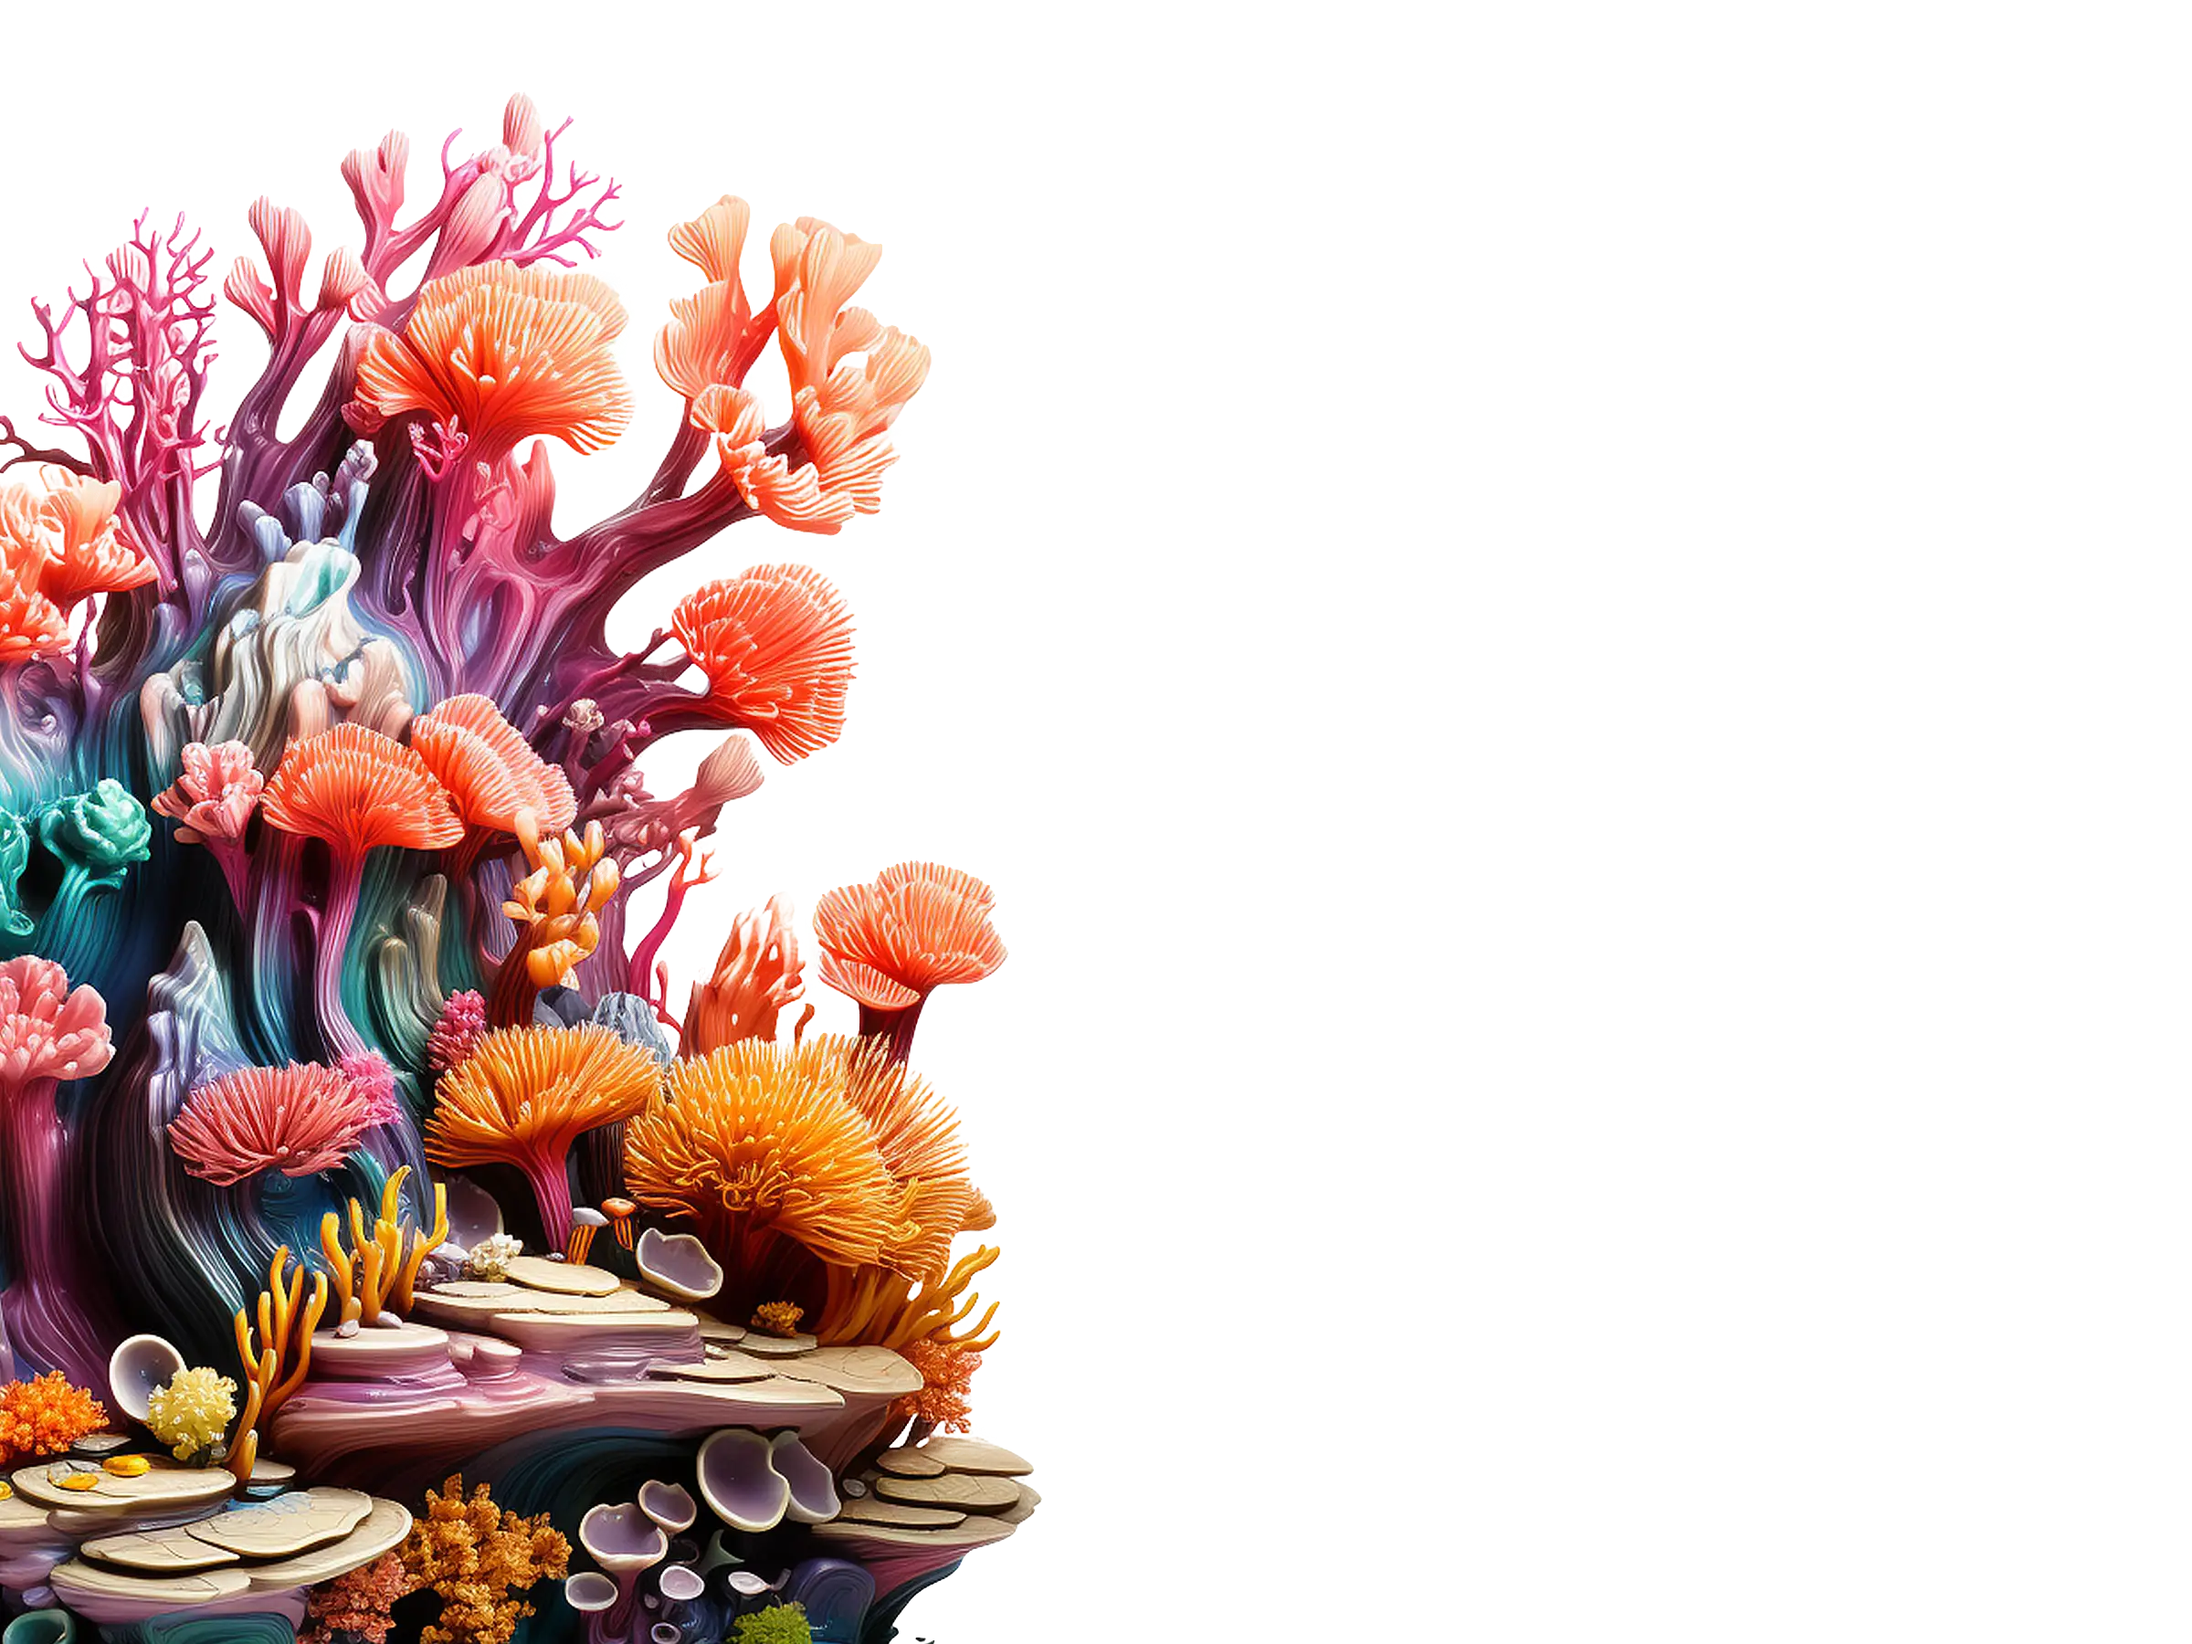
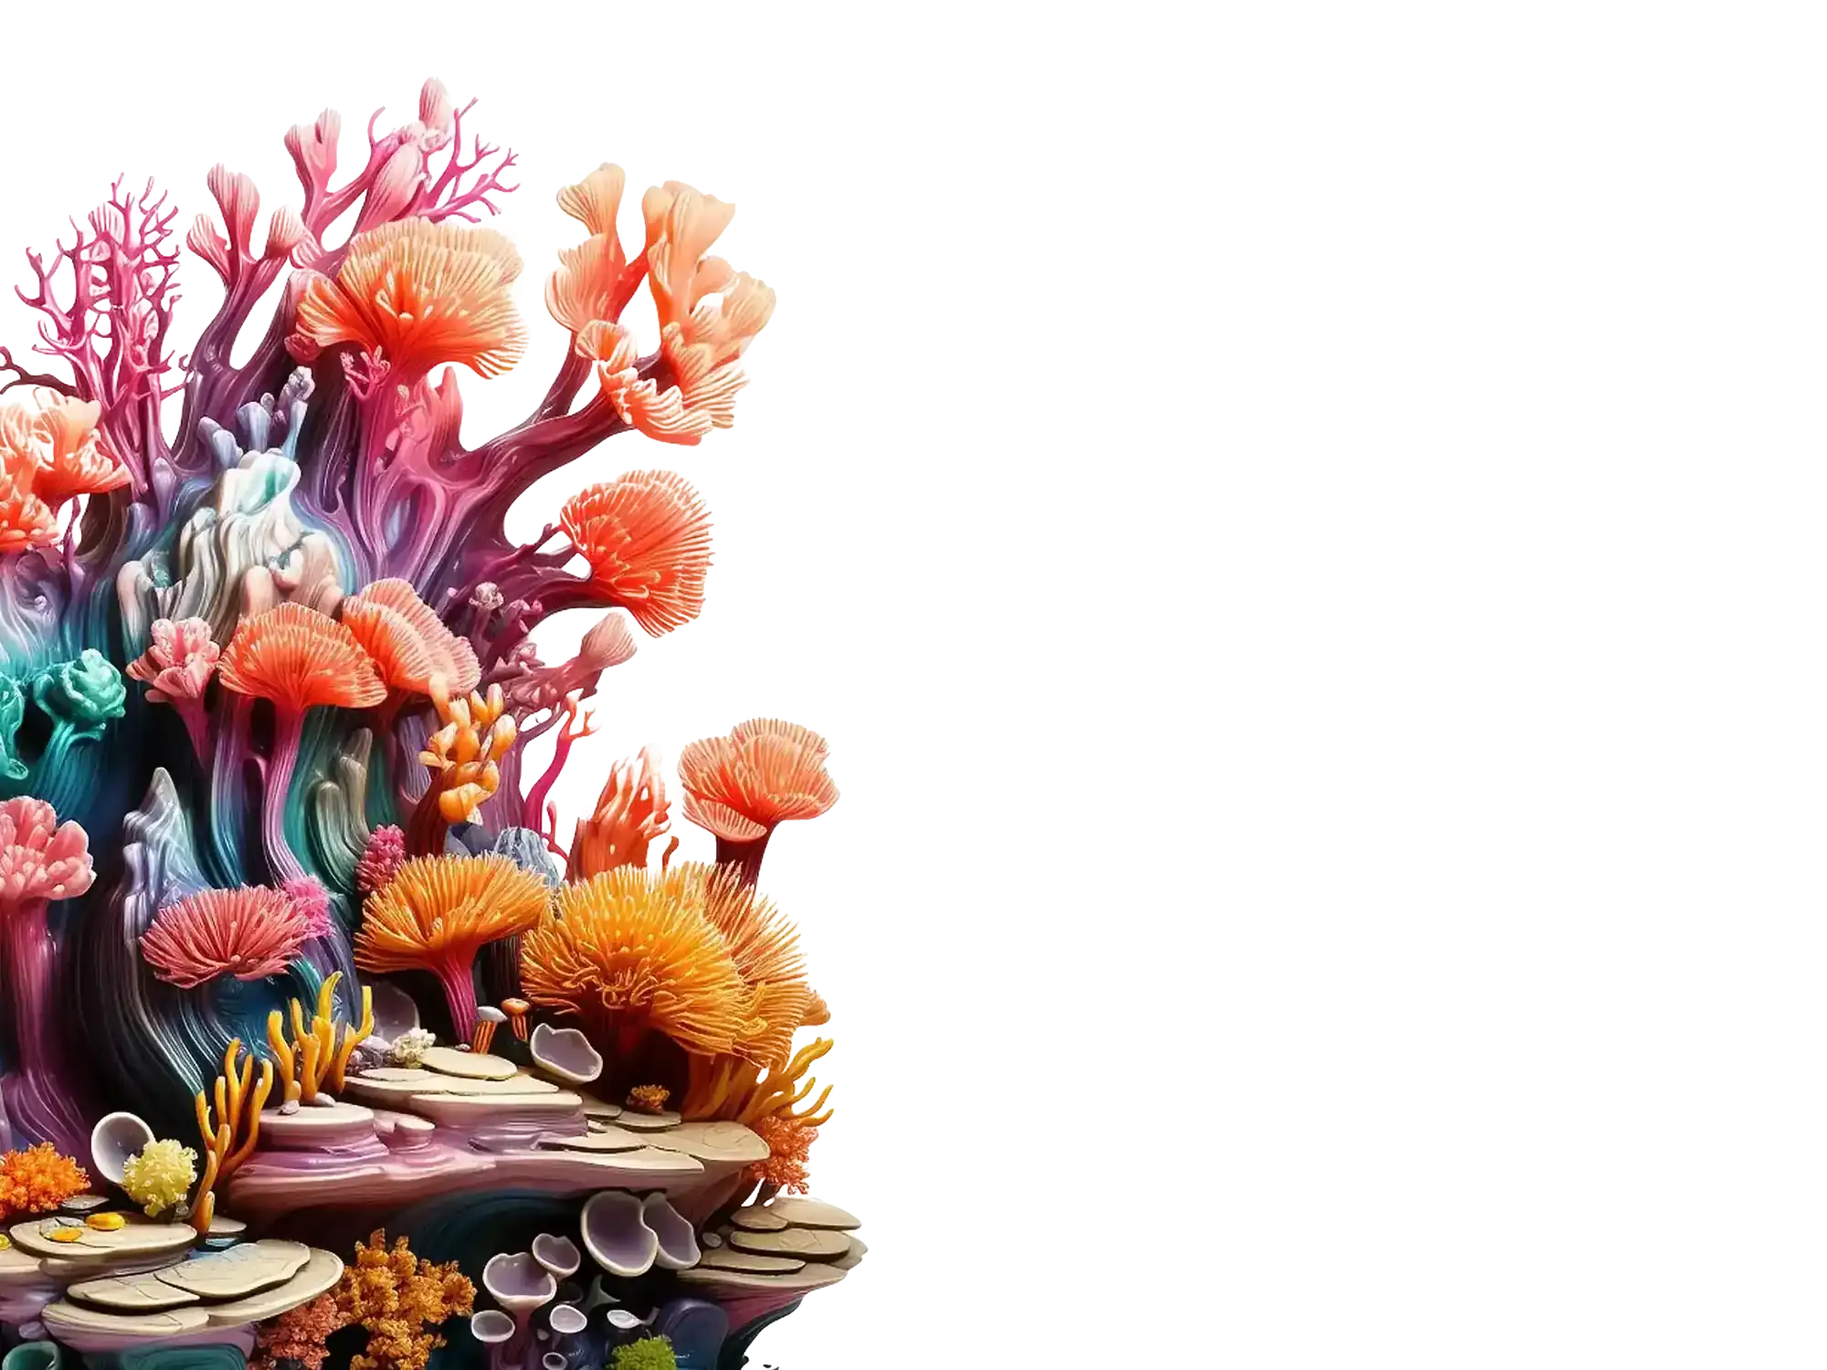
Compresses Images, added resources

diff --git a/cv.html b/cv.html
@@ -82,12 +82,13 @@
           width="100"
           height="100" />
       </div>
+
+      <!-- Parallax Welcome Banner -->
       <div class="parallax-container">
         <div class="parallax-layer sea-layer"></div>
         <div class="parallax-layer fish-layer"></div>
         <div class="parallax-layer coral-layer"></div>
         <div class="parallax-layer turtle-layer"></div>
-        <!-- Add this new text container -->
         <div class="parallax-text-container">
           <h1 class="display-1 text-white text-center fw-bold text-shadow">
             Welcome to My Portfolio
@@ -101,11 +102,14 @@
           >
         </div>
       </div>
+
+      <!-- Get to Know Me -->
       <div
         class="container d-flex justify-content-center align-items-center mt-50vh">
         <div class="card w-100">
           <div class="card-body">
-            <h5 class="card-title">Get to Know Me</h5>
+            <h5 class="card-title text-center fw-bold fs-3">Get to Know Me</h5>
+            <hr />
             <div class="card-text row">
               <div class="col-12 col-md-4 my-2">
                 <img
@@ -226,6 +230,7 @@
         <div class="card w-100">
           <div class="card-body">
             <h2 class="card-title text-center">Education</h2>
+            <hr />
             <section class="bsb-timeline-1 py-5 py-xl-8">
               <div class="container">
                 <div class="row justify-content-center">
@@ -287,6 +292,7 @@
         <div class="card w-100">
           <div class="card-body">
             <h2 class="card-title text-center">Experiences</h2>
+            <hr />
             <section class="bsb-timeline-1 py-5 py-xl-8">
               <div class="container">
                 <div class="row justify-content-center">
@@ -549,7 +555,200 @@
         </div>
       </div>
 
-      <div class="stars-container"> </div>
+      <!-- References, Resource, Credits, Acknowledgement -->
+      <div
+        class="container d-flex justify-content-center align-items-center mt-50vh">
+        <div class="card w-100">
+          <div class="card-body">
+            <div class="mt-4 wrap-break">
+              <p class="fw-bold text-xl">References:</p>
+              <ol>
+                <li id="ref-1">
+                  "HTML Style Guide," W3Schools, 2024. [Online]. Available:
+                  <a
+                    href="https://www.w3schools.com/html/html5_syntax.asp"
+                    target="_blank"
+                    >https://www.w3schools.com/html/html5_syntax.asp</a
+                  >. [Accessed: 20-Mar-2025].
+                </li>
+                <li id="ref-2">
+                  K. Nagashima, "hail2u/html-best-practices: For writing
+                  maintainable and scalable HTML documents," GitHub, 2023.
+                  [Online]. Available:
+                  <a
+                    href="https://github.com/hail2u/html-best-practices/blob/main/README.md"
+                    target="_blank"
+                    >https://github.com/hail2u/html-best-practices/blob/main/README.md</a
+                  >. [Accessed: 20-Mar-2025].
+                </li>
+                <li id="ref-3">
+                  Google, "HTML formatting," Google Developers, 2024. [Online].
+                  Available:
+                  <a
+                    href="https://developers.google.com/style/html-formatting#line-length"
+                    target="_blank"
+                    >https://developers.google.com/style/html-formatting#line-length</a
+                  >. [Accessed: 20-Mar-2025].
+                </li>
+                <li id="ref-4">
+                  M. Frisbie, Professional JavaScript for Web Developers.
+                  Hoboken, NJ, USA: John Wiley & Sons, Inc., 2019. [Online].
+                  Available:
+                  <a
+                    href="http://ebookcentral.proquest.com/lib/uwa/detail.action?docID=5916538"
+                    target="_blank"
+                    >http://ebookcentral.proquest.com/lib/uwa/detail.action?docID=5916538</a
+                  >. [Accessed: 20-Mar-2025].
+                </li>
+                <li id="ref-5">
+                  A. de Sousa, "andredesousa/css-best-practices: This is a
+                  guideline of CSS best practices that you can apply to your
+                  front-end project," GitHub, 2024. [Online]. Available:
+                  <a
+                    href="https://github.com/andredesousa/css-best-practices"
+                    target="_blank"
+                    >https://github.com/andredesousa/css-best-practices</a
+                  >
+                  . [Accessed: 20-Mar-2025].
+                </li>
+                <li id="ref-6">
+                  "Using CSS custom properties (variables) - CSS: Cascading
+                  Style Sheets," MDN Web Docs, 2024. [Online]. Available:
+                  <a
+                    href="https://developer.mozilla.org/en-US/docs/Web/CSS/CSS_cascading_variables/Using_CSS_custom_properties"
+                    target="_blank"
+                    >https://developer.mozilla.org/en-US/docs/Web/CSS/CSS_cascading_variables/Using_CSS_custom_properties</a
+                  >. [Accessed: 20-Mar-2025].
+                </li>
+                <li id="ref-7">
+                  R. C. Martin, Clean Code: A Handbook of Agile Software
+                  Craftsmanship. Upper Saddle River, NJ, USA: Prentice Hall,
+                  2008.
+                </li>
+                <li id="ref-8">
+                  "How can you use a linter to improve your code quality?"
+                  LinkedIn, 2024. [Online]. Available:
+                  <a
+                    href="https://www.linkedin.com/advice/1/how-can-you-use-linter-improve-your-code-quality-7eace"
+                    target="_blank"
+                    >https://www.linkedin.com/advice/1/how-can-you-use-linter-improve-your-code-quality-7eace</a
+                  >. [Accessed: 20-Mar-2025].
+                </li>
+                <li id="ref-9">
+                  "Using Prettier and JSLint," freeCodeCamp, 2024. [Online].
+                  Available:
+                  <a
+                    href="https://www.freecodecamp.org/news/using-prettier-and-jslint"
+                    target="_blank"
+                    >https://www.freecodecamp.org/news/using-prettier-and-jslint</a
+                  >. [Accessed: 20-Mar-2025].
+                </li>
+                <li id="ref-10">
+                  "Why Prettier?," Prettier Documentation, 2024. [Online].
+                  Available:
+                  <a
+                    href="https://prettier.io/docs/why-prettier"
+                    target="_blank"
+                    >https://prettier.io/docs/why-prettier</a
+                  >. [Accessed: 20-Mar-2025].
+                </li>
+                <li id="ref-11">
+                  "What is Prettier?," Prettier Documentation, 2024. [Online].
+                  Available:
+                  <a
+                    href="https://prettier.io/docs/"
+                    target="_blank"
+                    >https://prettier.io/docs/</a
+                  >. [Accessed: 20-Mar-2025].
+                </li>
+              </ol>
+            </div>
+
+            <div class="mt-4 wrap-break">
+              <p class="fw-bold text-xl">Credits and Acknowledgments</p>
+              <ol>
+                <li>
+                  This website was created as part of web development
+                  assignments. Special thanks to
+                  <a
+                    href="https://lottiefiles.com/Beecher"
+                    target="_blank"
+                    rel="noopener"
+                    >Beecher</a
+                  >
+                  for providing the awesome animations used on the site.
+                </li>
+                <li>
+                  The icon and favicon were generated with AI using prompts "<i
+                    >Very simple flat icon of web in shape of C</i
+                  >
+                  " <span class="fw-bold">DigitalArtwork(XL)</span> via Krita AI
+                  Image Generation Plugin.
+                </li>
+                <li>
+                  Additionally, certain contents on the best practices have been
+                  paraphrased with the help of ChatGPT and personally reviewed
+                  to shorten development time.
+                </li>
+              </ol>
+            </div>
+
+            <div class="mt-4 wrap-break"
+              ><p class="fw-bold text-xl">Resources</p> <ol></ol
+            ></div>
+
+            <div class="mt-4 wrap-break">
+              <p class="fw-bold text-xl">AI Generated Contents</p>
+              <p>Following Images are AI Generated</p>
+              <div class="row">
+                <div class="col-12">
+                  <figure
+                    ><img
+                      src="./assets/images/icon.webp"
+                      alt="icon" />
+                    <figcaption class="text-sm"
+                      >AI Model:
+                      <span class="fw-bold">DigitalArtwork(XL)</span> <br />
+                      Tools: Krita AI Image Generation Plugin <br />
+                      Prompt:
+                      <i>Very simple flat icon of web in shape of C</i>
+                    </figcaption></figure
+                  >
+                </div>
+
+                <div class="col-12">
+                  <figure
+                    ><img
+                      class="w-50"
+                      src="./assets/images/fish_base.webp"
+                      alt="icon" />
+                    <figcaption class="text-sm"
+                      >AI Model:
+                      <span class="fw-bold">DigitalArtwork(XL)</span> <br />
+                      Tools: Krita AI Image Generation Plugin <br />
+                      Prompt:
+                      <i>School of fish in blue water, no background</i> <br />
+                      <span class="text-xs"
+                        >*Image retouched to remove the background for parallax
+                        slide</span
+                      >
+                    </figcaption></figure
+                  >
+                </div>
+              </div>
+            </div>
+          </div>
+        </div>
+      </div>
+
+      <!-- Thank You Banner -->
+      <div class="stars-container">
+        <div class="parallax-text-container">
+          <h1 class="display-1 text-white text-center fw-bold text-shadow">
+            Thank You for Visiting
+          </h1>
+        </div>
+      </div>
     </main>
     <!-- Footer -->
     <footer

diff --git a/assets/css/cv.css b/assets/css/cv.css
@@ -50,7 +50,7 @@
 
 .fish-layer {
   z-index: 3;
-  background-image: url("../images/fishes.webp");
+  background-image: url("../images/fish.webp");
 }
 
 .coral-layer {
@@ -83,6 +83,7 @@
   background-attachment: fixed;
   height: 100vh;
   position: relative;
+  margin-bottom: 0;
 }
 
 .parallax-text-container {
